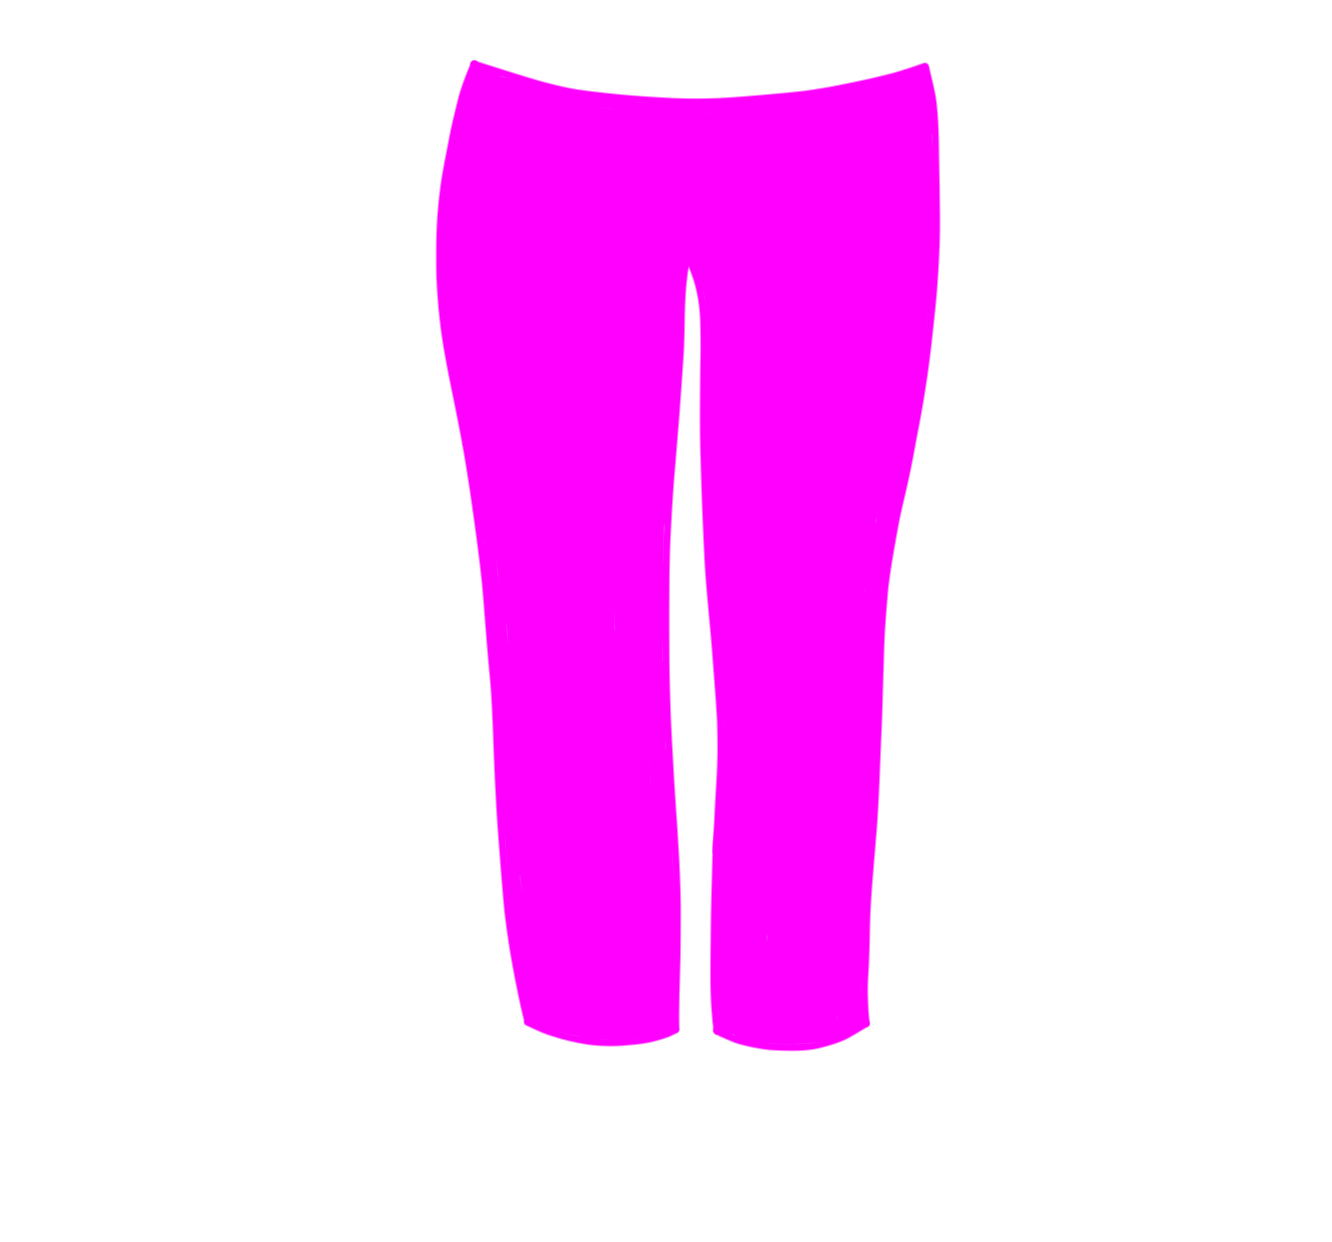
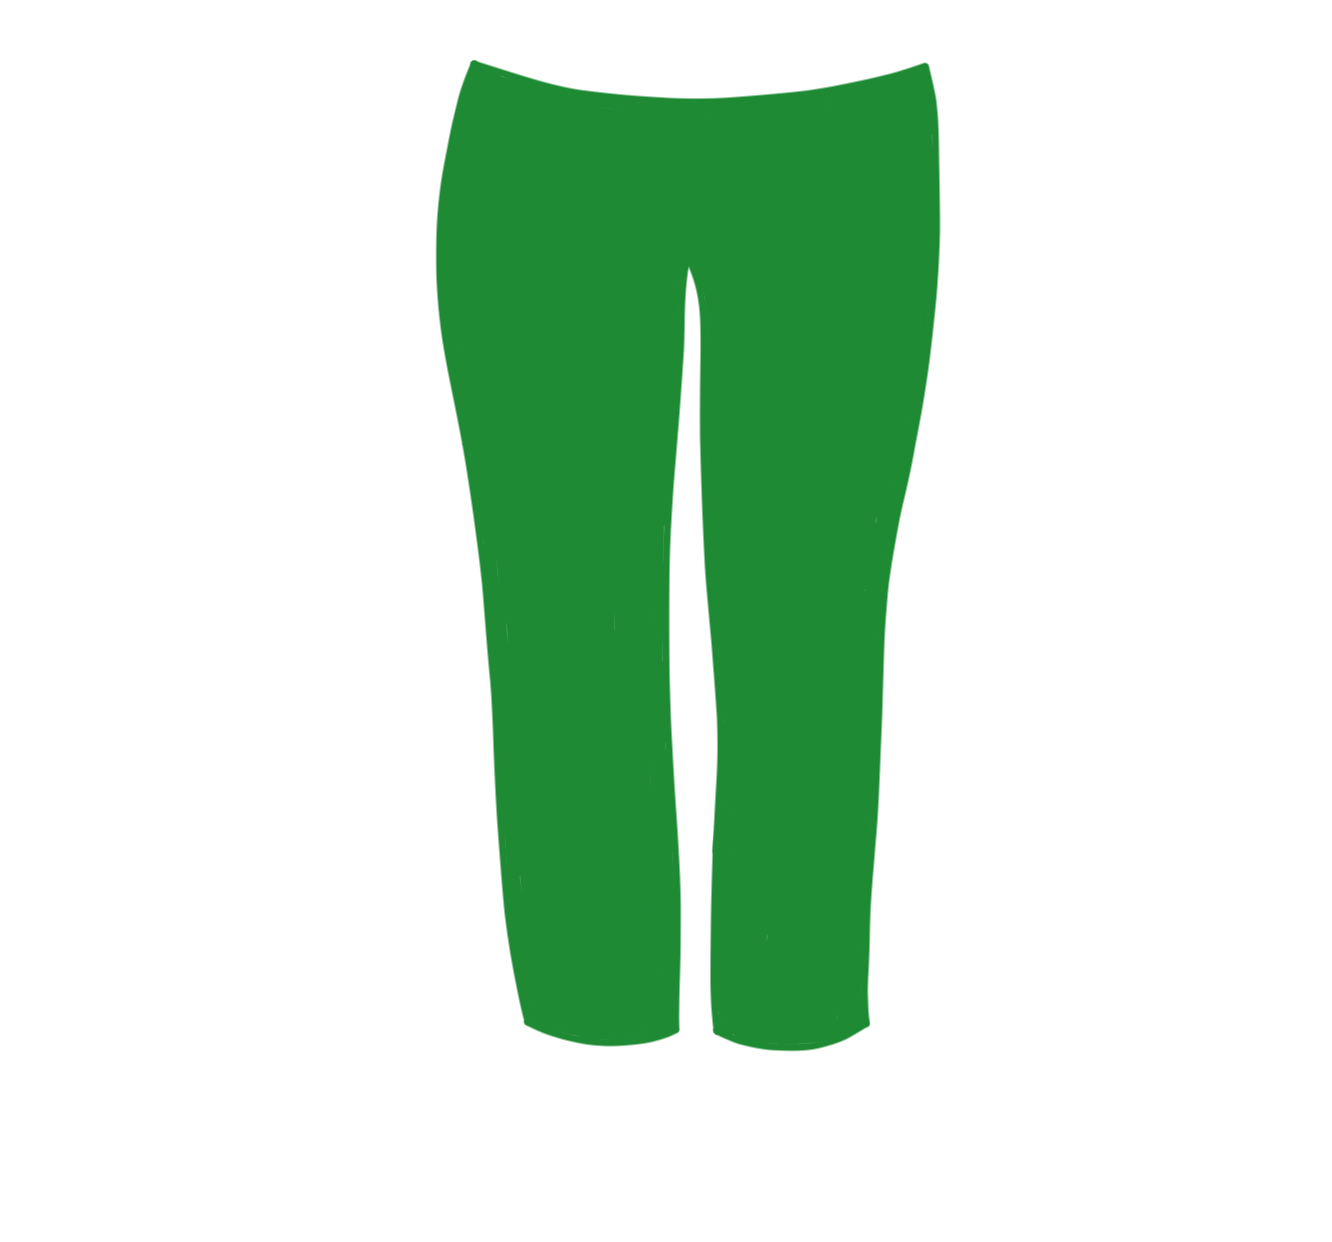
Change: default color

Changed region(s): [[0.3078, 0.0306, 0.708, 0.8567]]

diff --git a/api/public/index.html b/api/public/index.html
@@ -33,7 +33,7 @@
                 <form id="tops-form">
                     <div class="wrapper-color">
                         <label for="tops-color">カラー：</label>
-                        <input id="tops-color" type="hidden" size="20" name="color" value="ff00ff" />
+                        <input id="tops-color" type="hidden" size="20" name="color" value="#1E8A34" />
                         <div id="tops-color-picker"></div>
                     </div>
                     <div class="pulldown">
@@ -54,7 +54,7 @@
                 <form id="bottoms-form">
                     <div class="wrapper-color">
                         <label for="bottoms-color">カラー：</label>
-                        <input id="bottoms-color" type="hidden" size="20" name="color" value="ff00ff" />
+                        <input id="bottoms-color" type="hidden" size="20" name="color" value="#1E8A34" />
                         <div id="bottoms-color-picker"></div>
                     </div>
 
@@ -73,7 +73,7 @@
                 <form id="shoes-form">
                     <div class="wrapper-color">
                         <label for="shoes-color">カラー：</label>
-                        <input id="shoes-color" type="hidden" size="20" name="color" value="ff00ff" />
+                        <input id="shoes-color" type="hidden" size="20" name="color" value="#1E8A34" />
                         <div id="shoes-color-picker"></div>
                     </div>
 

diff --git a/api/public/javascripts/callapi.js b/api/public/javascripts/callapi.js
@@ -7,7 +7,7 @@ const createPickr = (elementId) => {
     return Pickr.create({
         el: elementId,
         theme: 'nano',
-        default: 'ff00ff',
+        default: '#1E8A34',
         components: {
 
             preview: true,
